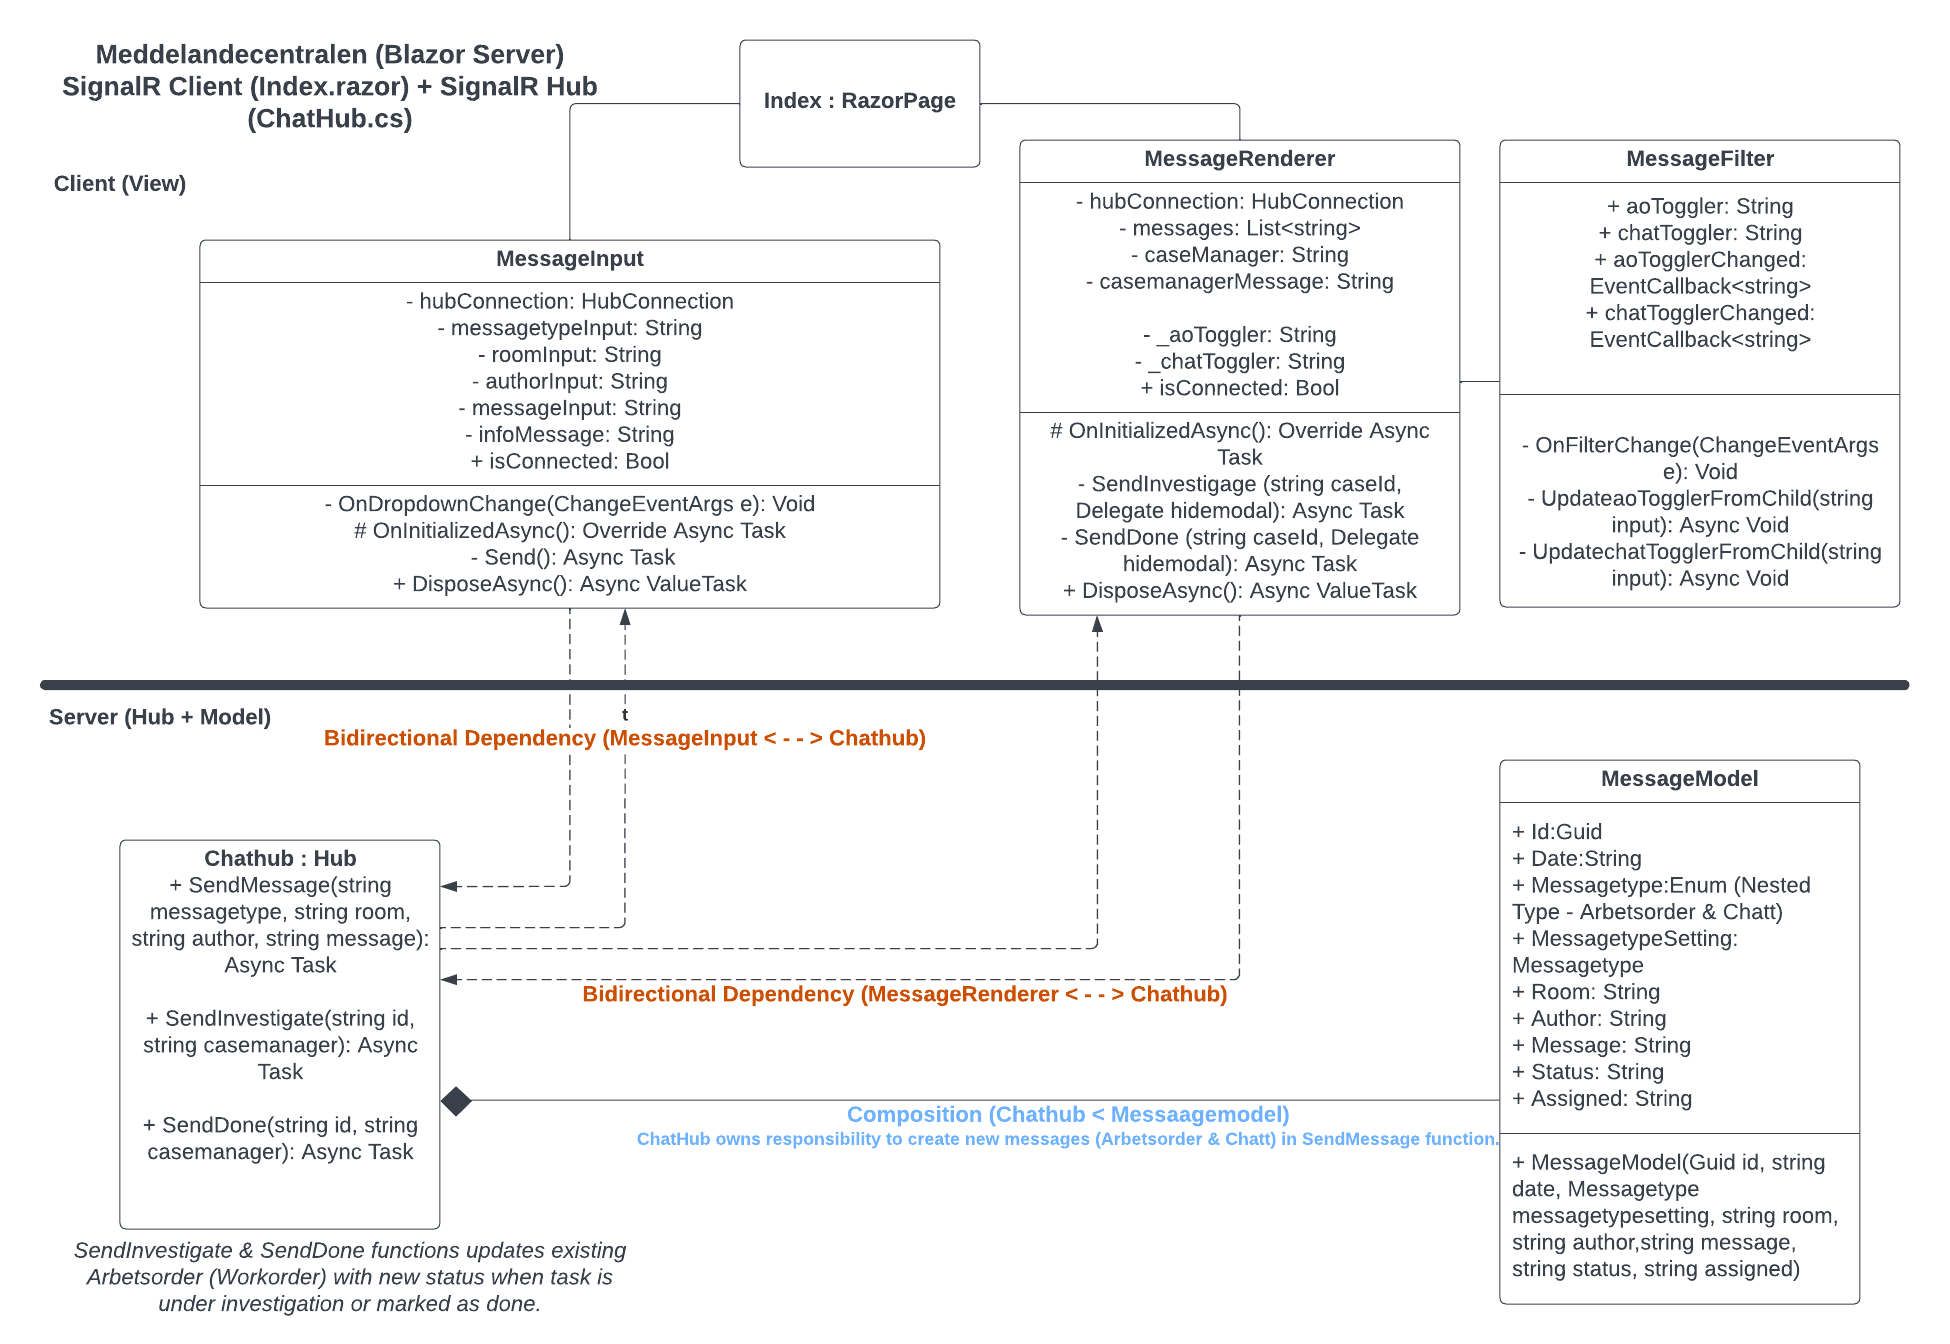
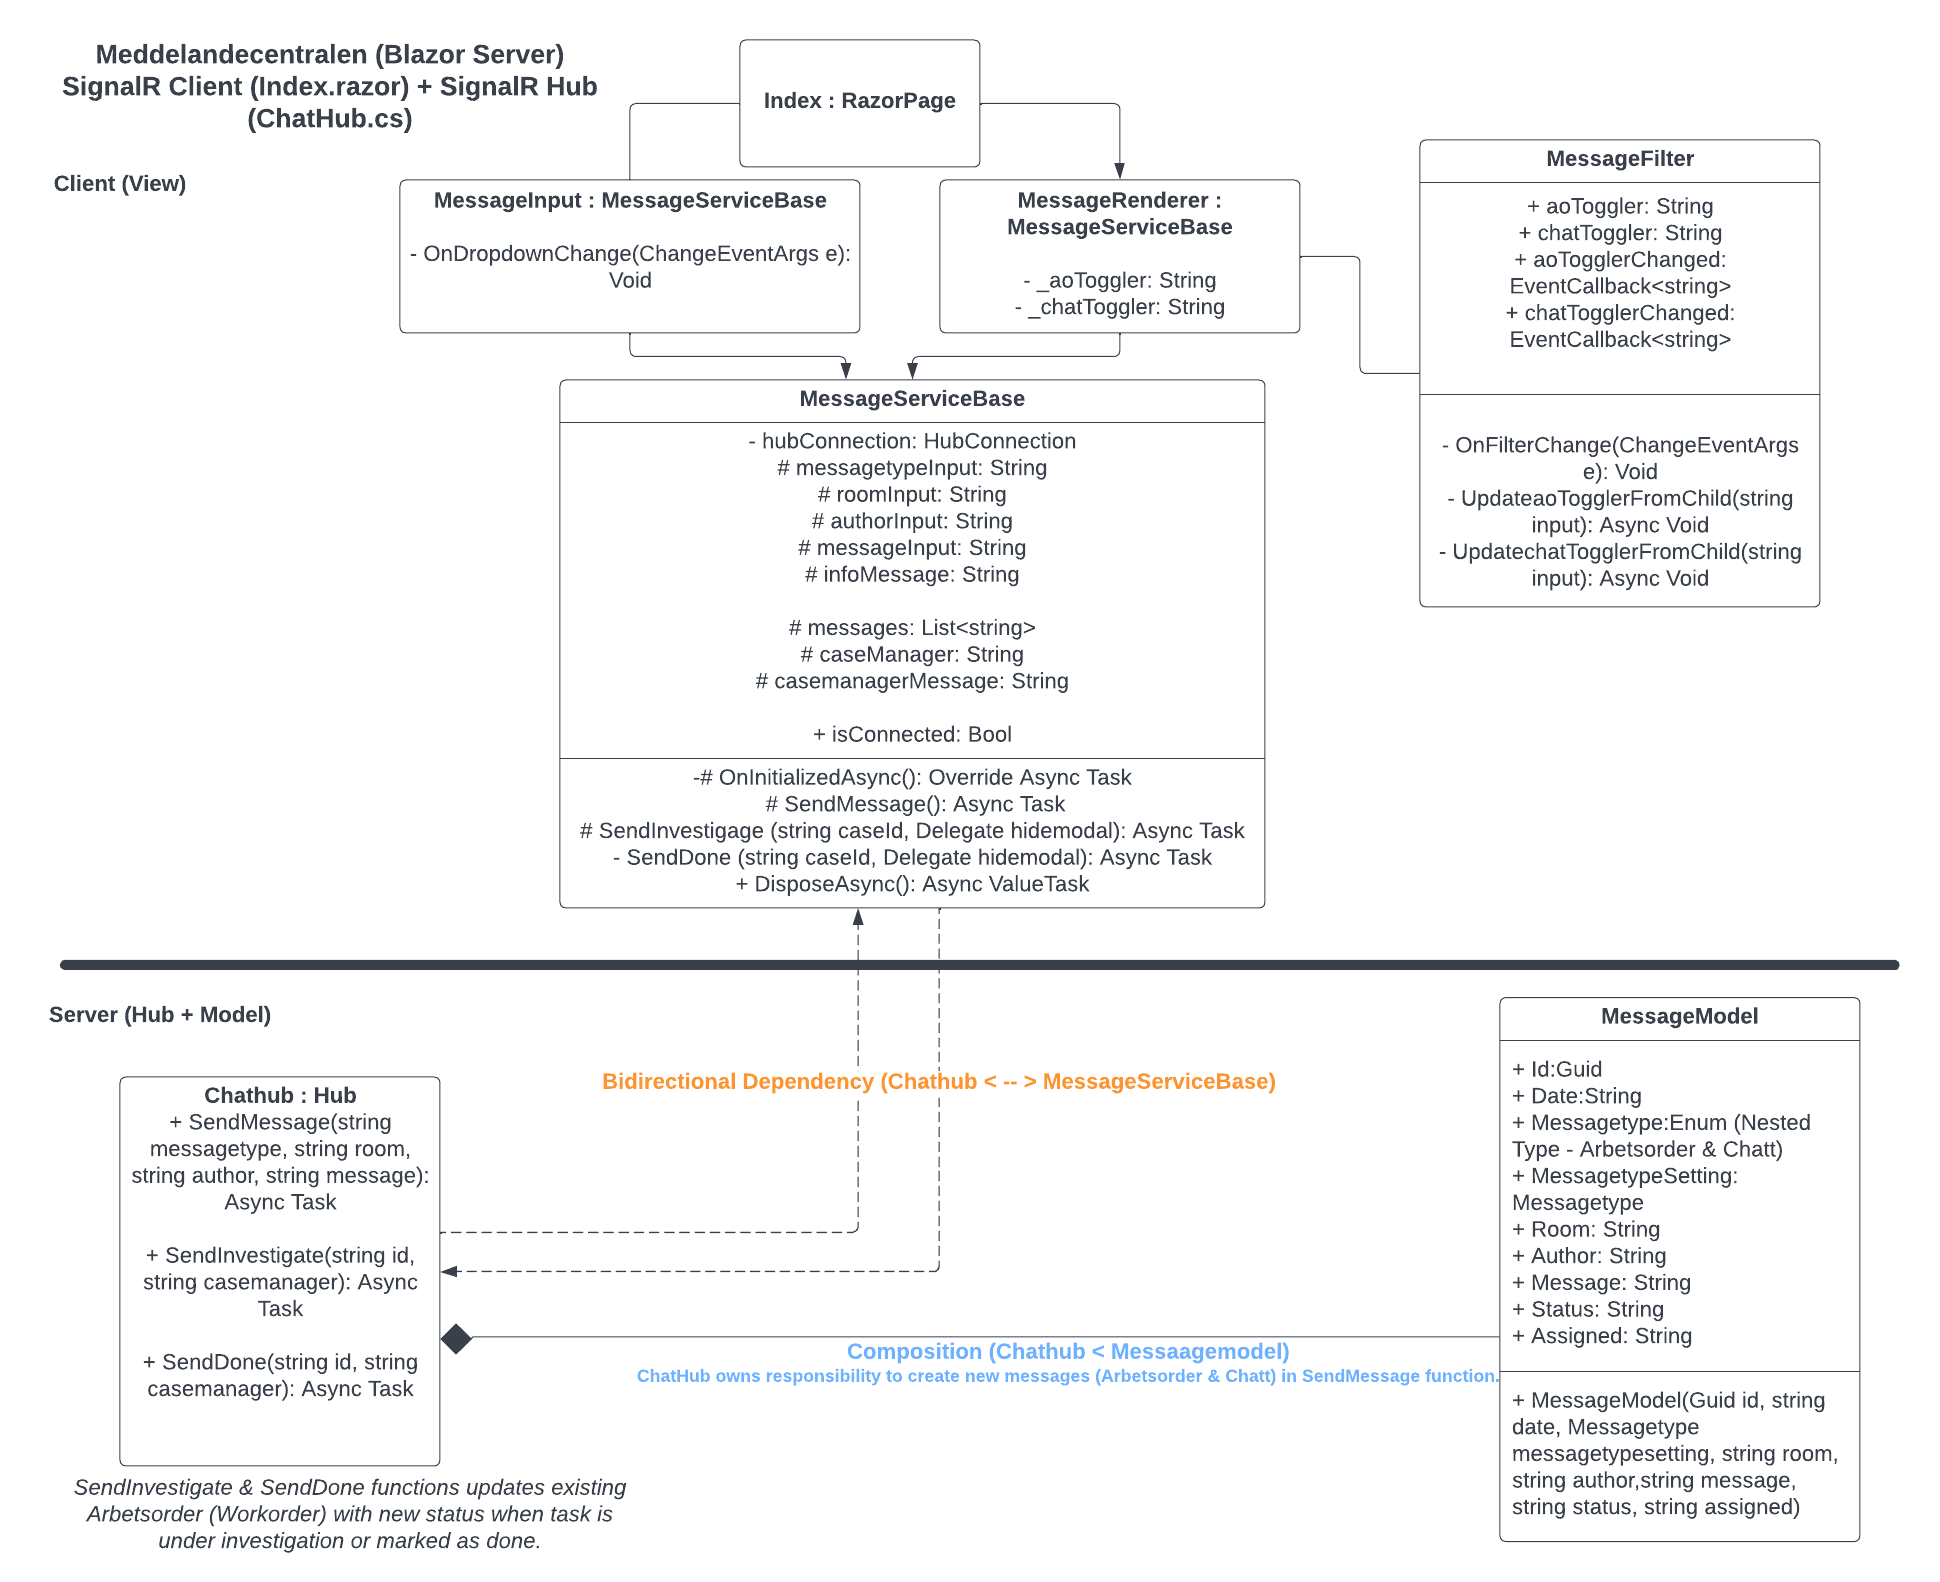
Implementering av MessageService, uppdatering klassdiagram och readme

diff --git a/Shared/MessageServiceBase.cs b/Shared/MessageServiceBase.cs
@@ -1,0 +1,113 @@
+using Microsoft.AspNetCore.SignalR.Client;
+//@inject NavigationManager Navigation
+using Microsoft.AspNetCore.Components;
+
+namespace Meddelandecentralen.Pages
+{
+    public class MessageServiceBase : ComponentBase
+    {
+    [Inject]
+    public NavigationManager Navigation { get; set; } = null!;
+    //MessageInput
+    private HubConnection? hubConnection;
+    protected string? messagetypeInput;
+    protected string? roomInput;
+    protected string? authorInput;
+    protected string? messageInput;
+    protected string? infoMessage;
+    //MessageRenderer
+    protected List<string> messages = new();
+    protected string? caseManager;
+    protected string? casemanagerMessage;
+
+    protected override async Task OnInitializedAsync()
+    {
+        messagetypeInput = "Chat";
+
+        hubConnection = new HubConnectionBuilder()
+            .WithUrl(Navigation.ToAbsoluteUri("/chathub"))
+            .Build();
+        hubConnection.On<Models.MessageModel>("ReceiveWorkorder", (workorder) =>
+        {
+            var encodedMsg = $"[{workorder.Id}] - [{workorder.Date}] - [Arbetsorder]: Rum: {workorder.Room} - Publicerad av: {workorder.Author} - Status: {workorder.Status} - Tilldelad till: {workorder.Assigned} Meddelande: {workorder.Message}";
+            messages.Add(encodedMsg);
+            InvokeAsync(StateHasChanged);
+        });
+        hubConnection.On<Models.MessageModel>("ReceiveChat", (chat) =>
+        {
+            var encodedMsg = $"[{chat.Date}] - [Chatt]: - Publicerad av: {chat.Author} Meddelande: {chat.Message}";
+            messages.Add(encodedMsg);
+            InvokeAsync(StateHasChanged);
+        });
+        hubConnection.On<string, string, string>("ReceiveInvestigate", (id, casemanager, status) =>
+        {
+          int index = messages.FindIndex(ind => ind.Contains(id));
+          var updated = messages[index].Replace("Ej tilldelad", casemanager).Replace("Ej påbörjad", status);
+          messages.RemoveAt(index);
+          messages.Insert(index, updated);
+          InvokeAsync(StateHasChanged);
+        });
+        hubConnection.On<string, string, string>("ReceiveDone", (id, casemanager, status) =>
+        {
+          int index = messages.FindIndex(ind => ind.Contains(id));
+          var updated = messages[index].Replace("Tilldelad till", "Utredd av").Replace("Ej tilldelad", casemanager).Replace("Ej påbörjad", status).Replace("Under utredning", status + " av " +casemanager);
+          messages.RemoveAt(index);
+          messages.Insert(index, updated);
+          InvokeAsync(StateHasChanged);
+        });
+        await hubConnection.StartAsync();
+    }
+    protected async Task SendMessage()
+    {
+      if (hubConnection is not null)
+      {
+        if(authorInput?.Length > 1 && messageInput?.Length > 1){
+          await hubConnection.SendAsync("SendMessage", messagetypeInput, roomInput, authorInput, messageInput);
+          roomInput = "";
+          messageInput = "";
+        }
+        else {
+          infoMessage = "Du måste fylla i båda fälten Ditt namn och Meddelande ovan för att skicka meddelandet.";
+        }
+      }
+    }
+    protected async Task SendInvestigate(string caseId, Delegate hidemodal)
+    {
+      if (hubConnection is not null)
+      {
+        if(caseManager?.Length > 1){
+          await hubConnection.SendAsync("SendInvestigate", caseId, caseManager);
+          caseManager = "";
+          hidemodal.DynamicInvoke();
+        }
+        else {
+          casemanagerMessage = "Du måste fylla i ditt namn som handläggare innan du kan skicka.";
+        }
+      }
+    }
+    protected async Task SendDone(string caseId, Delegate hidemodal)
+    {
+      if (hubConnection is not null)
+      {
+        if(caseManager?.Length > 1){
+          await hubConnection.SendAsync("SendDone", caseId, caseManager);
+          caseManager = "";
+          hidemodal.DynamicInvoke();
+        }
+        else {
+          casemanagerMessage = "Du måste fylla i ditt namn som handläggare innan du kan skicka.";
+        }
+      }
+    }
+    public bool IsConnected =>
+      hubConnection?.State == HubConnectionState.Connected;
+
+    public async ValueTask DisposeAsync()
+    {
+      if (hubConnection is not null)
+      {
+        await hubConnection.DisposeAsync();
+      }
+    }
+    }
+}

diff --git a/README.md b/README.md
@@ -1,33 +1,37 @@
 # Meddelandecentralen
-Chattapplikation för anställda hos Concorde Hotel New York för att hantera arbetsordrar och chatta med kollegor. 
+
+Chattapplikation för anställda hos Concorde Hotel New York för att hantera arbetsordrar och chatta med kollegor.
+
 # Teknik
+
 Skapad med:  
 [Blazor server (ASP.NET Core)](https://learn.microsoft.com/en-us/aspnet/core/blazor/?view=aspnetcore-6.0) med [SignalR Hubs](https://learn.microsoft.com/en-us/aspnet/core/signalr/hubs?view=aspnetcore-6.0)  
 [SignalR Client](https://learn.microsoft.com/en-us/aspnet/core/signalr/client-features?view=aspnetcore-6.0)  
-[BlazorStrap V5](https://blazorstrap.io/V5/)  
+[BlazorStrap V5](https://blazorstrap.io/V5/)
 
-# Installationsanvisning  
+# Installationsanvisning
+
 <ins>För utvecklare och testning (lokalt):</ins>  
-Ladda ner koden som zip eller klona ner med git clone via Code-knappen uppe till höger.  
+Ladda ner koden som zip eller klona ner med git clone via Code-knappen uppe till höger.
 
 Nödvändig förutsättning (Om inte installerat redan på dator):
-[Download .NET](https://dotnet.microsoft.com/en-us/download)  
+[Download .NET](https://dotnet.microsoft.com/en-us/download)
 
 I din terminal så kör du:  
 dotnet restore  
-dotnet run  
+dotnet run
 
 Nu kan du surfa in på applikationen på angiven port och testa applikationen.
 
 Vill du publicera/deploya applikationen så finns information nedan:  
 [Host and deploy ASP.NET Core](https://learn.microsoft.com/en-us/aspnet/core/host-and-deploy/?view=aspnetcore-6.0)  
 [Deploy .NET Core apps with Visual Studio](https://learn.microsoft.com/en-us/dotnet/core/deploying/deploy-with-vs?tabs=vs156)  
-[Publish .NET apps with the .NET CLI](https://learn.microsoft.com/en-us/dotnet/core/deploying/deploy-with-cli)  
+[Publish .NET apps with the .NET CLI](https://learn.microsoft.com/en-us/dotnet/core/deploying/deploy-with-cli)
 
-  
-# Inlämning 1 - Planering  
+# Inlämning 1 - Planering
+
 <ins>Val av idé:</ins>  
-"2. En chatt där alla kan prata med alla, "som Slack ungefär", i så fall måste det vara tydligt vilket rum som är aktuellt och om rummets status påverkas."  
+"2. En chatt där alla kan prata med alla, "som Slack ungefär", i så fall måste det vara tydligt vilket rum som är aktuellt och om rummets status påverkas."
 
 <ins>Typ (Arbetsorder):</ins>  
 Tanken är att meddelandet som skickas innehåller tidstämpel (datum + klockslag), vem som skickat meddelandet, gällande vilket rum, meddelande, status och tilldelad till. Sedan kan man i realtid kunna toggla denna status via två knappar (andra anställda beroende på om det är åtgärdad eller under utredning) när man klickar på knappen så tilldelar den användaren automatiskt.
@@ -35,34 +39,34 @@ Tanken är att meddelandet som skickas innehåller tidstämpel (datum + klocksla
 <ins>Typ (Chattmeddelande):</ins>  
 tidstämpel (datum + klockslag), vem som skickat meddelandet och meddelande.
 
-<ins>Initial planering (Kanban):</ins>  
-1) [Öppna nedan Kanban bild i större storlek](https://github.com/niborium/Meddelandecentralen/blob/main/Kanban-initial.PNG)  
-2) [Öppna Kanbanbrädet - Endast behöriga - Robin & Viktor](https://github.com/users/niborium/projects/1/views/1)   
-3) [Se milstolpar och uppgifter](https://github.com/niborium/Meddelandecentralen/milestones)  
-![Kanban](https://github.com/niborium/Meddelandecentralen/blob/main/Kanban-initial.PNG?raw=true)  
+<ins>Initial planering (Kanban):</ins>
+
+1. [Öppna nedan Kanban bild i större storlek](https://github.com/niborium/Meddelandecentralen/blob/main/Kanban-initial.PNG)
+2. [Öppna Kanbanbrädet - Endast behöriga - Robin & Viktor](https://github.com/users/niborium/projects/1/views/1)
+3. [Se milstolpar och uppgifter](https://github.com/niborium/Meddelandecentralen/milestones)  
+   ![Kanban](https://github.com/niborium/Meddelandecentralen/blob/main/Kanban-initial.PNG?raw=true)
 
 Observera att ovan är en Initial planering av arbetet. Det kan tillkomma uppgifter eller redigeras uppgifter under arbetets gång.
 
 # Inlämning 2 - Lägesrapport
+
 <ins>Klassdiagram:</ins>  
 ![Classdiagram](https://github.com/niborium/Meddelandecentralen/blob/main/Artefacts/Meddelandecentralen-classdiagram.png)
 
-#Bidirectional Dependency (MessageInput < - - > Chathub)  
-Ändringar i Send-funktionen (MessageInput) kan påverka SendMessage-funktionen (ChatHub)  
-Ändringar i SendMessage (ChatHub) kan påverka Send-funktionen (MessageInput).  
+#Bidirectional Dependency (Chathub < - - > MessageServiceBase)  
+Ändringar i SendMessage-funktionen (MessageServiceBase) kan påverka SendMessage-funktionen (ChatHub)  
+Ändringar i SendMessage (ChatHub) kan påverka SendMessage-funktionen (MessageServiceBase).  
 Kan resultera i att meddelanden inte skickas korrekt. (Chatt & Arbetsorder)
 
-#Bidirectional Dependency (MessageRenderer < - - > Chathub)  
-Ändringar i MessageRenderer (SendInveistage & SendDone) kan påverka SendInvestigate & SendDone-funktionen (ChatHub)  
+Ändringar i MessageServiceBase (SendInvestigate & SendDone) kan påverka SendInvestigate & SendDone-funktionen (ChatHub)  
 Ändringar i SendInvestigate & SendDone (ChatHub) kan påverka SendInvestigate & SendDone-funktionen (MessageRendrer).  
-Kan resultera i att tilldening och statusuppdatering (Under utredning och Åtgärdad) för meddelanden inte skickas korrekt eller att meddelanden inte tas emot korrekt.  
-
+Kan resultera i att tilldening och statusuppdatering (Under utredning och Åtgärdad) för meddelanden inte skickas korrekt eller att meddelanden inte tas emot korrekt.
 
 <ins>Kanban uppdatering:</ins>  
 Ligger före planeringen med god marginal och har egentligen endast förbättring av meddelande formatet som kvarstår.
 Det som kvarstår utöver det är tester (det som finns uppgifter för) och även eventuell förbättring av gränssnittet.
 
-1) [Öppna nedan Kanban bild i större storlek](https://github.com/niborium/Meddelandecentralen/blob/main/Kanban-update.PNG)  
-2) [Öppna Kanbanbrädet - Endast behöriga - Robin & Viktor](https://github.com/users/niborium/projects/1/views/1)   
-3) [Se milstolpar och uppgifter](https://github.com/niborium/Meddelandecentralen/milestones)  
-![Kanban](https://github.com/niborium/Meddelandecentralen/blob/main/Kanban-update.PNG?raw=true)  
+1. [Öppna nedan Kanban bild i större storlek](https://github.com/niborium/Meddelandecentralen/blob/main/Kanban-update.PNG)
+2. [Öppna Kanbanbrädet - Endast behöriga - Robin & Viktor](https://github.com/users/niborium/projects/1/views/1)
+3. [Se milstolpar och uppgifter](https://github.com/niborium/Meddelandecentralen/milestones)  
+   ![Kanban](https://github.com/niborium/Meddelandecentralen/blob/main/Kanban-update.PNG?raw=true)
